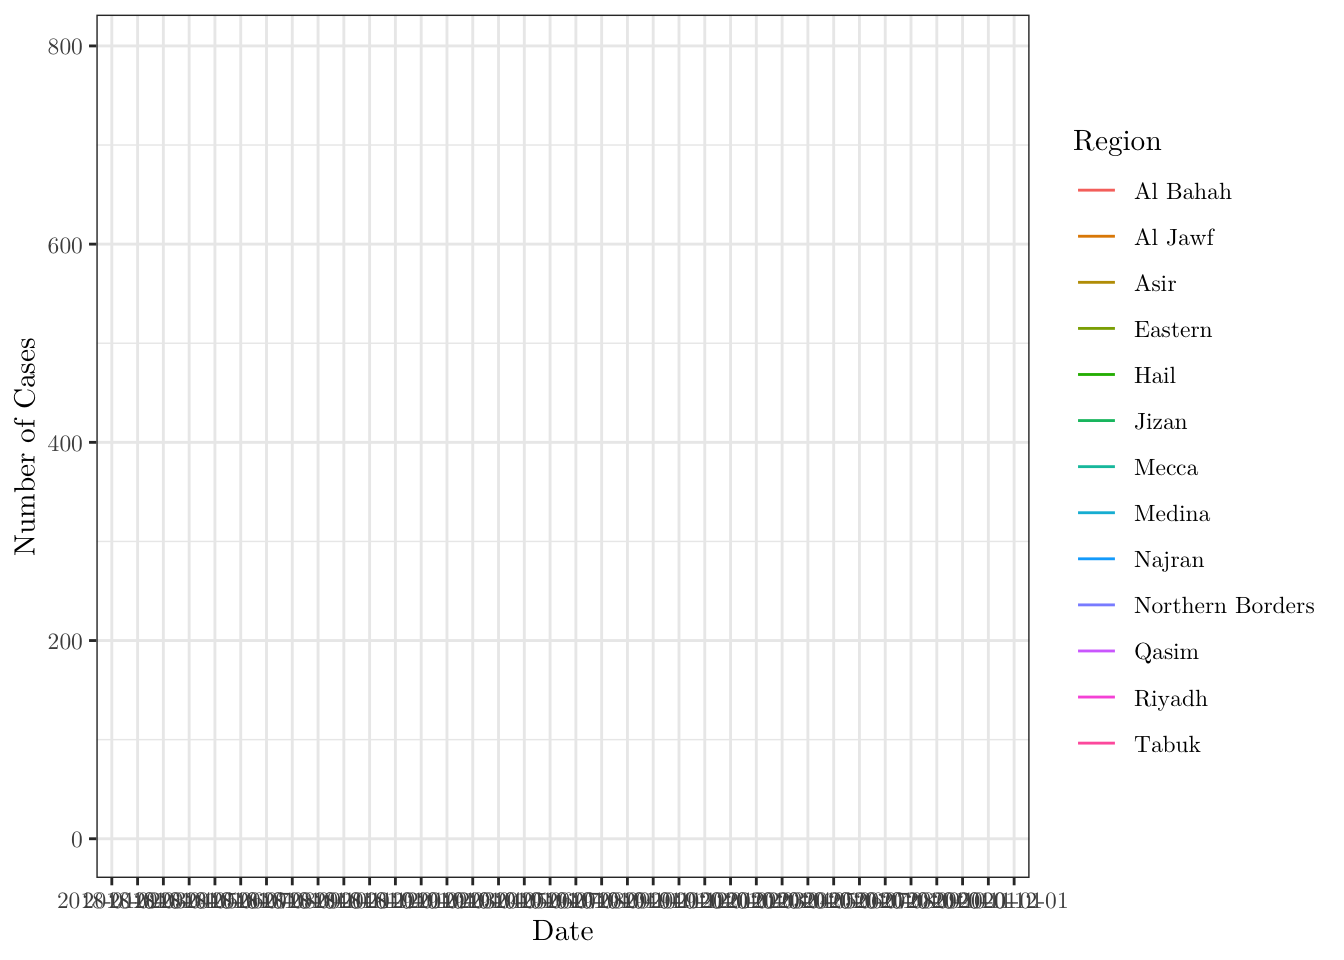
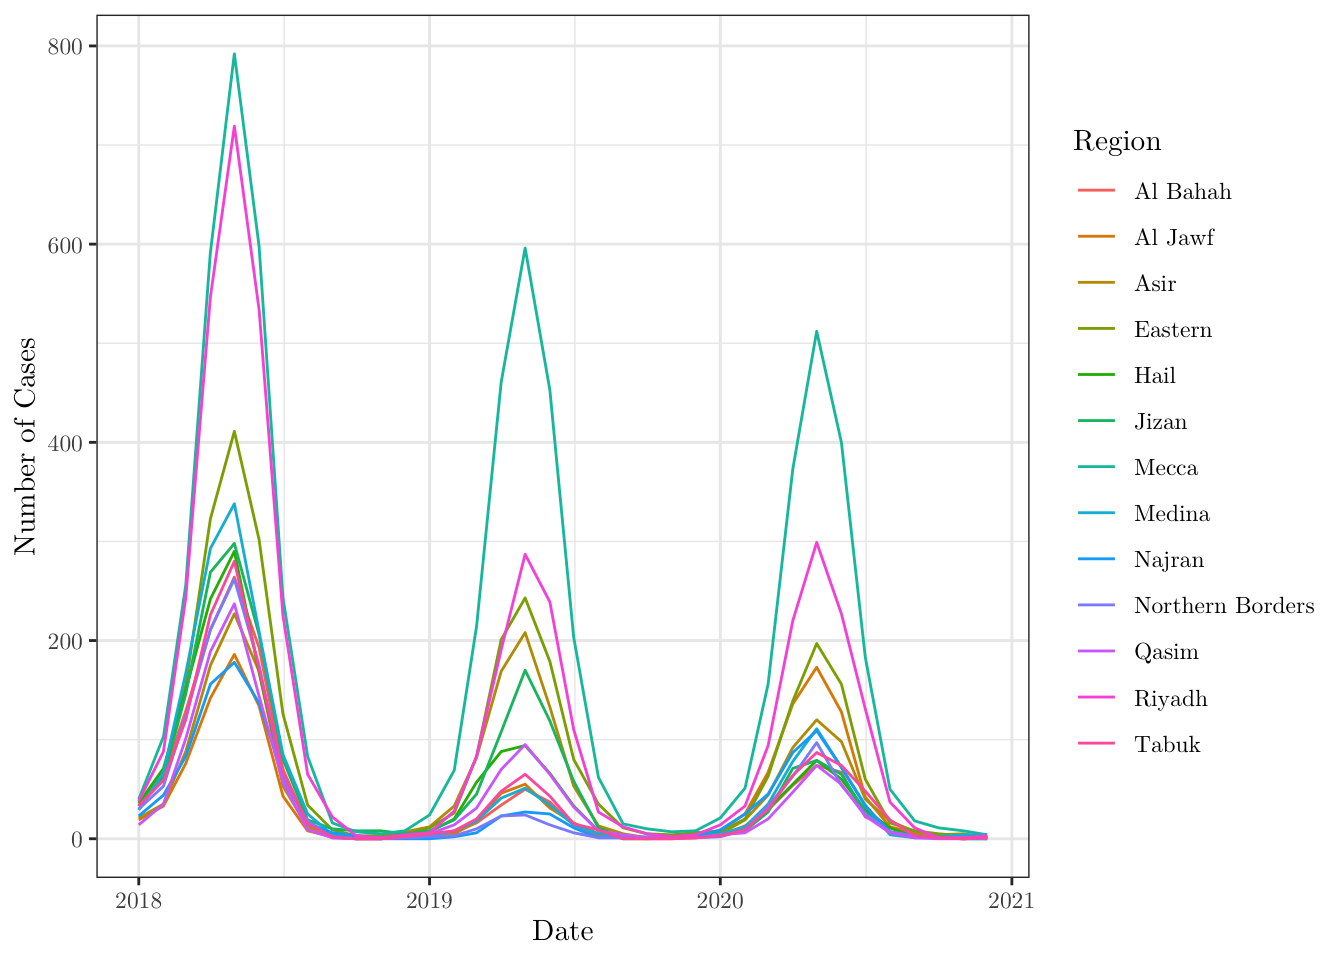
update r4ds

Changed region(s): [[0.0625, 0.0312, 0.7812, 0.9688], [0.5938, 0.3438, 0.625, 0.4688], [0.375, 0.25, 0.4062, 0.375]]

diff --git a/docs/R4DS.html b/docs/R4DS.html
@@ -375,14 +375,24 @@ div.tocify {
 </div>
 
 
-<div id="introduction" class="section level1" number="1">
-<h1><span class="header-section-number">1</span> Introduction</h1>
+<div id="objectives" class="section level1 unnumbered">
+<h1 class="unnumbered">Objectives</h1>
 <p>In this tutorial session, we will see how to read, manipulate and
 visualize data. The main reference for this session is the <a
 href="https://r4ds.had.co.nz/">R for Data Science</a> book, which is
 freely available online.</p>
-<p>Throughout this problem set, consider the following scenario. Let
-<span class="math inline">\(\{y_{it}; i = 1, \cdots, I; t = 1, \cdots,
+</div>
+<div id="introduction" class="section level1" number="1">
+<h1><span class="header-section-number">1</span> Introduction</h1>
+<p>For this problem set, we will use the following libraries</p>
+<pre class="r"><code>library(tidyverse)
+library(lubridate)
+library(zoo)
+library(rgeoboundaries)
+library(patchwork)
+library(viridis)</code></pre>
+<p>Throughout the tutorial, consider the following scenario. Let <span
+class="math inline">\(\{y_{it}; i = 1, \cdots, I; t = 1, \cdots,
 T\}\)</span> denotes a multivariate time series of disease counts in
 each Saudi Arabia region, such that <span class="math inline">\(I =
 13\)</span> refers to the number of considered regions and <span
@@ -400,25 +410,26 @@ size and proportion of men in each region, as well as the number of
 deaths linked to each element of the <span
 class="math inline">\(\{y_{it}\}_{it}\)</span> series.</p>
 <p>You can download the <code>.csv</code> file <a
-href="./datasets/r4ds.csv">here</a>. And you read the file in the
-following way</p>
+href="./datasets/r4ds.csv">here</a>. And you read the file and convert
+it to a <code>tibble</code> object in the following way</p>
 <pre class="r"><code>data &lt;- read.csv(file = &#39;datasets/r4ds.csv&#39;, sep = &#39;,&#39;)
+data &lt;- as_tibble(data)
+data$date &lt;- ymd(data$date)
+
 head(data, 5)</code></pre>
-<pre><code>##         date           region n_cases     pop  men_prop n_deaths
-## 1 2018-01-01          Eastern      33 4105780 0.4029141        3
-## 2 2018-01-01           Najran      23  505652 0.4856072        1
-## 3 2018-01-01 Northern Borders      30  320524 0.6664768        6
-## 4 2018-01-01            Ha’il      36  597144 0.6009460        3
-## 5 2018-01-01           Riyadh      38 6777146 0.5585120        6</code></pre>
+<pre><code>## # A tibble: 5 × 6
+##   date       region           n_cases     pop men_prop n_deaths
+##   &lt;date&gt;     &lt;chr&gt;              &lt;int&gt;   &lt;int&gt;    &lt;dbl&gt;    &lt;int&gt;
+## 1 2018-01-01 Eastern               33 4105780    0.403        3
+## 2 2018-01-01 Najran                23  505652    0.486        1
+## 3 2018-01-01 Northern Borders      30  320524    0.666        6
+## 4 2018-01-01 Ha’il                 36  597144    0.601        3
+## 5 2018-01-01 Riyadh                38 6777146    0.559        6</code></pre>
 <p>The code to generated such a data set can be found <a
 href="./datasets/codeR.R">here</a>.</p>
-<p>Also, we will need the following libraries</p>
-<pre class="r"><code>library(tidyverse)
-library(lubridate)
-library(zoo)
-library(rgeoboundaries)
-library(patchwork)
-library(viridis)</code></pre>
+</div>
+<div id="data-manipulation" class="section level1" number="2">
+<h1><span class="header-section-number">2</span> Data manipulation</h1>
 <p>Now, to manipulate our data set, we will use the <code>dplyr</code>
 package. From , we can see that there are 5 main methods, namely,
 <code>mutate()</code>, <code>select()</code>, <code>filter()</code>,
@@ -428,9 +439,11 @@ package. From , we can see that there are 5 main methods, namely,
 pipe operator <code>%&gt;%</code> (in <code>RStudio</code>, you may use
 the shortcut <code>Ctrl + Shift + M</code>).</p>
 <pre class="r"><code>data %&gt;% select(date, region, n_cases) %&gt;% head(3)</code></pre>
-<pre><code>##         date           region n_cases
-## 1 2018-01-01          Eastern      33
-## 2 2018-01-01           Najran      23
+<pre><code>## # A tibble: 3 × 3
+##   date       region           n_cases
+##   &lt;date&gt;     &lt;chr&gt;              &lt;int&gt;
+## 1 2018-01-01 Eastern               33
+## 2 2018-01-01 Najran                23
 ## 3 2018-01-01 Northern Borders      30</code></pre>
 <pre class="r"><code># Alternatively, 
 # data %&gt;% select(-pop, -men_prop, -n_deaths) %&gt;% head(3)
@@ -439,7 +452,9 @@ the shortcut <code>Ctrl + Shift + M</code>).</p>
 functions that can be combined with <code>select()</code>. For instance,
 select all columns that start with “<code>n_</code>”.</p>
 <pre class="r"><code>data %&gt;% select(starts_with(&#39;n_&#39;)) %&gt;% head(3)</code></pre>
-<pre><code>##   n_cases n_deaths
+<pre><code>## # A tibble: 3 × 2
+##   n_cases n_deaths
+##     &lt;int&gt;    &lt;int&gt;
 ## 1      33        3
 ## 2      23        1
 ## 3      30        6</code></pre>
@@ -448,10 +463,12 @@ select all columns that start with “<code>n_</code>”.</p>
 the dates and regions for which the number of cases is greater than
 40.</p>
 <pre class="r"><code>data %&gt;% filter(n_cases &gt; 30) %&gt;% select(date, region) %&gt;% head(3)</code></pre>
-<pre><code>##         date  region
+<pre><code>## # A tibble: 3 × 2
+##   date       region 
+##   &lt;date&gt;     &lt;chr&gt;  
 ## 1 2018-01-01 Eastern
-## 2 2018-01-01   Ha’il
-## 3 2018-01-01  Riyadh</code></pre>
+## 2 2018-01-01 Ha’il  
+## 3 2018-01-01 Riyadh</code></pre>
 <p>Also, select the date, name of the region, number of cases, and
 number of deaths for which the region is Eastern or Najran
 <code>AND</code> the date is greater than <code>2019-01-01</code> (you
@@ -459,9 +476,11 @@ may want to use the <code>lubridate</code> package to deal with
 dates).</p>
 <pre class="r"><code>data %&gt;% filter(region %in% c(&#39;Eastern&#39;, &#39;Najran&#39;), date &gt; ymd(&#39;2019-01-01&#39;)) %&gt;% 
   select(date, region, n_cases, n_deaths) %&gt;% head(3)</code></pre>
-<pre><code>##         date  region n_cases n_deaths
+<pre><code>## # A tibble: 3 × 4
+##   date       region  n_cases n_deaths
+##   &lt;date&gt;     &lt;chr&gt;     &lt;int&gt;    &lt;int&gt;
 ## 1 2019-02-01 Eastern      26        7
-## 2 2019-02-01  Najran       2        0
+## 2 2019-02-01 Najran        2        0
 ## 3 2019-03-01 Eastern      83       13</code></pre>
 <p>Now, select the date, name of the region, number of cases, and number
 of deaths for which the number of cases is larger than <code>700</code>
@@ -470,17 +489,21 @@ arrange, in a descending order for <code>n_cases</code>, the
 results.</p>
 <pre class="r"><code>data %&gt;% filter(n_deaths == 10 | n_cases &gt; 700) %&gt;% 
   select(date, region, n_cases, n_deaths) %&gt;% arrange(desc(n_cases)) %&gt;% head(3)</code></pre>
-<pre><code>##         date region n_cases n_deaths
-## 1 2018-05-01  Mecca     792       93
+<pre><code>## # A tibble: 3 × 4
+##   date       region n_cases n_deaths
+##   &lt;date&gt;     &lt;chr&gt;    &lt;int&gt;    &lt;int&gt;
+## 1 2018-05-01 Mecca      792       93
 ## 2 2018-05-01 Riyadh     719      121
-## 3 2019-05-01  Ha’il      94       10</code></pre>
+## 3 2019-05-01 Ha’il       94       10</code></pre>
 <p>Finally, using the <code>mutate()</code> function, create a new
 column into the original data set that shows the cumulative sum for the
 number of deaths (and name it <code>cum_deaths</code>), and select the
 number of deaths and this newly created column.</p>
 <pre class="r"><code>data %&gt;% mutate(cum_deaths = cumsum(n_deaths)) %&gt;% 
   select(ends_with(&#39;deaths&#39;)) %&gt;% head(3)</code></pre>
-<pre><code>##   n_deaths cum_deaths
+<pre><code>## # A tibble: 3 × 2
+##   n_deaths cum_deaths
+##      &lt;int&gt;      &lt;int&gt;
 ## 1        3          3
 ## 2        1          4
 ## 3        6         10</code></pre>
@@ -500,10 +523,12 @@ columns.</p>
   drop_na(n_cases_lag2) %&gt;% 
   select(-date, -region) %&gt;% 
   head(3)</code></pre>
-<pre><code>##   n_cases     pop  men_prop n_deaths n_cases_lag2 n_deaths_lag3
-## 1      30  320524 0.6664768        6           33            NA
-## 2      36  597144 0.6009460        3           23             3
-## 3      38 6777146 0.5585120        6           30             1</code></pre>
+<pre><code>## # A tibble: 3 × 6
+##   n_cases     pop men_prop n_deaths n_cases_lag2 n_deaths_lag3
+##     &lt;int&gt;   &lt;int&gt;    &lt;dbl&gt;    &lt;int&gt;        &lt;int&gt;         &lt;int&gt;
+## 1      30  320524    0.666        6           33            NA
+## 2      36  597144    0.601        3           23             3
+## 3      38 6777146    0.559        6           30             1</code></pre>
 <p>Now, the goal is work with the <code>group_by()</code> function. To
 do this, group the data set by region, and select the three first
 columns.</p>
@@ -511,7 +536,7 @@ columns.</p>
 <pre><code>## # A tibble: 3 × 3
 ## # Groups:   region [3]
 ##   date       region           n_cases
-##   &lt;chr&gt;      &lt;chr&gt;              &lt;int&gt;
+##   &lt;date&gt;     &lt;chr&gt;              &lt;int&gt;
 ## 1 2018-01-01 Eastern               33
 ## 2 2018-01-01 Najran                23
 ## 3 2018-01-01 Northern Borders      30</code></pre>
@@ -527,7 +552,7 @@ date.</p>
 <pre><code>## # A tibble: 14 × 7
 ## # Groups:   date [2]
 ##    date       region           n_cases men_prop n_deaths norm_cases cumsum
-##    &lt;chr&gt;      &lt;chr&gt;              &lt;int&gt;    &lt;dbl&gt;    &lt;int&gt;      &lt;dbl&gt;  &lt;dbl&gt;
+##    &lt;date&gt;     &lt;chr&gt;              &lt;int&gt;    &lt;dbl&gt;    &lt;int&gt;      &lt;dbl&gt;  &lt;dbl&gt;
 ##  1 2018-01-01 Eastern               33    0.403        3     0.0862 0.0862
 ##  2 2018-01-01 Najran                23    0.486        1     0.0601 0.146 
 ##  3 2018-01-01 Northern Borders      30    0.666        6     0.0783 0.225 
@@ -551,8 +576,10 @@ number of rows.</p>
             var_n_cases = var(n_cases, na.rm = TRUE),
             mean_n_deaths = mean(n_deaths, na.rm = TRUE),
             var_n_deaths = var(n_deaths, na.rm = TRUE), n = n())</code></pre>
-<pre><code>##   mean_n_cases var_n_cases mean_n_deaths var_n_deaths   n
-## 1     63.90812    11830.49      9.764957     293.5463 468</code></pre>
+<pre><code>## # A tibble: 1 × 5
+##   mean_n_cases var_n_cases mean_n_deaths var_n_deaths     n
+##          &lt;dbl&gt;       &lt;dbl&gt;         &lt;dbl&gt;        &lt;dbl&gt; &lt;int&gt;
+## 1         63.9      11830.          9.76         294.   468</code></pre>
 <p>Notice that the result from the above item is not very impressive,
 but we can combine it with <code>group_by()</code> to get more
 meaningful statistics. For instance, obtain similar results as before,
@@ -590,52 +617,79 @@ consider the following data set, which shows the (fake) mean temperature
 Assuming the previous data set is in <code>data</code>,</p>
 <pre class="r"><code>set.seed(0)
 n &lt;- (nrow(data) - 3)
-new_data &lt;- tibble(id = 1:n, date = data$date[1:n], region = data$region[1:n], temperature = round(rnorm(n, 30, 2), 1))</code></pre>
+new_data &lt;- tibble(id = 1:n, date = data$date[1:n], region = data$region[1:n], temperature = round(rnorm(n, 30, 2), 1))
+new_data</code></pre>
+<pre><code>## # A tibble: 465 × 4
+##       id date       region           temperature
+##    &lt;int&gt; &lt;date&gt;     &lt;chr&gt;                  &lt;dbl&gt;
+##  1     1 2018-01-01 Eastern                 32.5
+##  2     2 2018-01-01 Najran                  29.3
+##  3     3 2018-01-01 Northern Borders        32.7
+##  4     4 2018-01-01 Ha’il                   32.5
+##  5     5 2018-01-01 Riyadh                  30.8
+##  6     6 2018-01-01 Asir                    26.9
+##  7     7 2018-01-01 Mecca                   28.1
+##  8     8 2018-01-01 Tabuk                   29.4
+##  9     9 2018-01-01 Medina                  30  
+## 10    10 2018-01-01 Qasim                   34.8
+## # … with 455 more rows</code></pre>
 <p>Notice that there is a column named <code>id</code> on
 <code>new_data</code>. We will need it to link the new tibble to the old
 one. Thus, let’s create a similar column in <code>data</code>.</p>
 <pre class="r"><code>data &lt;- data %&gt;% add_column(id = 1:(nrow(data))) %&gt;% select(c(7, 1:6))
 head(data, 1)</code></pre>
-<pre><code>##   id       date  region n_cases     pop  men_prop n_deaths
-## 1  1 2018-01-01 Eastern      33 4105780 0.4029141        3</code></pre>
+<pre><code>## # A tibble: 1 × 7
+##      id date       region  n_cases     pop men_prop n_deaths
+##   &lt;int&gt; &lt;date&gt;     &lt;chr&gt;     &lt;int&gt;   &lt;int&gt;    &lt;dbl&gt;    &lt;int&gt;
+## 1     1 2018-01-01 Eastern      33 4105780    0.403        3</code></pre>
 <p>Now, we can incorporate the new data into the original tibble by
 using, for example, the <code>left_join()</code> function.</p>
 <pre class="r"><code>data %&gt;% left_join(new_data %&gt;% select(id, temperature), by = &#39;id&#39;) %&gt;% 
   tail(1)</code></pre>
-<pre><code>##      id       date  region n_cases    pop  men_prop n_deaths temperature
-## 468 468 2020-12-01 Al Jawf       2 440009 0.2975002        0          NA</code></pre>
+<pre><code>## # A tibble: 1 × 8
+##      id date       region  n_cases    pop men_prop n_deaths temperature
+##   &lt;int&gt; &lt;date&gt;     &lt;chr&gt;     &lt;int&gt;  &lt;int&gt;    &lt;dbl&gt;    &lt;int&gt;       &lt;dbl&gt;
+## 1   468 2020-12-01 Al Jawf       2 440009    0.298        0          NA</code></pre>
 </div>
-<div id="main-section" class="section level1" number="2">
-<h1><span class="header-section-number">2</span> Main Section</h1>
-<p>For this section, from the original data set, create an object that
-contains the columns <code>date</code>, <code>region</code>,
-<code>n_men</code>, <code>n_women</code>, <code>n_cases</code>, and
-<code>n_deaths</code>, such that <code>n_men</code> and
-<code>n_women</code> correspond to the number of men and the number of
-women, respectively (to do this, recall that <code>men_prop</code>
-represents the proportion of men in the population for a given
-region).</p>
+<div id="data-visualization" class="section level1" number="3">
+<h1><span class="header-section-number">3</span> Data visualization</h1>
+<p>For this section, we will use <code>ggplot2</code> to produce
+different plots.</p>
+<div id="data-preparation" class="section level2" number="3.1">
+<h2><span class="header-section-number">3.1</span> Data preparation</h2>
+<p>From the original data set, create an object that contains the
+columns <code>date</code>, <code>region</code>, <code>n_men</code>,
+<code>n_women</code>, <code>n_cases</code>, and <code>n_deaths</code>,
+such that <code>n_men</code> and <code>n_women</code> correspond to the
+number of men and the number of women, respectively (to do this, recall
+that <code>men_prop</code> represents the proportion of men in the
+population for a given region).</p>
 <pre class="r"><code>data &lt;- data %&gt;% mutate(women_prop = 1 - men_prop) %&gt;%
           mutate(n_men = pop * men_prop) %&gt;% 
           mutate(n_women = pop * women_prop) %&gt;% 
           select(date, region, n_men, n_women, n_cases, n_deaths)
 head(data, 7)</code></pre>
-<pre><code>##         date           region     n_men   n_women n_cases n_deaths
-## 1 2018-01-01          Eastern 1654276.5 2451503.5      33        3
-## 2 2018-01-01           Najran  245548.2  260103.8      23        1
-## 3 2018-01-01 Northern Borders  213621.8  106902.2      30        6
-## 4 2018-01-01            Ha’il  358851.3  238292.7      36        3
-## 5 2018-01-01           Riyadh 3785117.5 2992028.5      38        6
-## 6 2018-01-01             Asir  850467.7 1062924.3      21        4
-## 7 2018-01-01            Mecca 2086623.2 4828382.8      40        9</code></pre>
+<pre><code>## # A tibble: 7 × 6
+##   date       region              n_men  n_women n_cases n_deaths
+##   &lt;date&gt;     &lt;chr&gt;               &lt;dbl&gt;    &lt;dbl&gt;   &lt;int&gt;    &lt;int&gt;
+## 1 2018-01-01 Eastern          1654276. 2451504.      33        3
+## 2 2018-01-01 Najran            245548.  260104.      23        1
+## 3 2018-01-01 Northern Borders  213622.  106902.      30        6
+## 4 2018-01-01 Ha’il             358851.  238293.      36        3
+## 5 2018-01-01 Riyadh           3785117. 2992029.      38        6
+## 6 2018-01-01 Asir              850468. 1062924.      21        4
+## 7 2018-01-01 Mecca            2086623. 4828383.      40        9</code></pre>
+</div>
+<div id="plotting" class="section level2" number="3.2">
+<h2><span class="header-section-number">3.2</span> Plotting</h2>
 <p>Now, the main goal is visualize the studied data set. To do this, we
 will mainly rely on the <code>ggplot2</code> library, which is also
 included in the <code>tidyverse</code> universe.</p>
 <p>Start by creating a line chart for the number of cases in each region
-(all in the same plot) over the months (When I tried to plot it in my
+(all in the same plot) over the months (when I tried to plot it in my
 <code>RMarkdown</code> document, I had problems with the
 <code>Ha’il</code> name. If the same happens to you, try to replace it
-by <code>Hail</code>.). Map <code>region</code> to
+by <code>Hail</code>). Map <code>region</code> to
 <code>color</code>.</p>
 <pre class="r"><code>data &lt;- data %&gt;% mutate(region = replace(region, region == &#39;Ha’il&#39;, &#39;Hail&#39;))</code></pre>
 <pre class="r"><code>ggplot(data = data, 
@@ -644,8 +698,6 @@ by <code>Hail</code>.). Map <code>region</code> to
   theme_bw() + 
   labs(x = &#39;Date&#39;, y = &#39;Number of Cases&#39;, color = &#39;Region&#39;) + 
   theme(text = element_text(family = &#39;LM Roman 10&#39;))</code></pre>
-<pre><code>## geom_path: Each group consists of only one observation. Do you need to adjust
-## the group aesthetic?</code></pre>
 <p><img src="R4DS_files/figure-html/unnamed-chunk-19-1.png" width="672" /></p>
 <p>When plotting, we can also map more than one property at a time. For
 instance, plot a dot chart for the number of cases in each region over
@@ -680,11 +732,6 @@ same time series.</p>
                                  &#39;solid_red&#39; = alpha(&#39;red&#39;, 1.00)),
                       labels = c(&#39;Original data&#39;, &#39;Moving average&#39;)) +
   theme(text = element_text(family = &#39;LM Roman 10&#39;))</code></pre>
-<pre><code>## geom_path: Each group consists of only one observation. Do you need to adjust
-## the group aesthetic?</code></pre>
-<pre><code>## Warning: Removed 2 row(s) containing missing values (geom_path).</code></pre>
-<pre><code>## geom_path: Each group consists of only one observation. Do you need to adjust
-## the group aesthetic?</code></pre>
 <p><img src="R4DS_files/figure-html/unnamed-chunk-21-1.png" width="672" /></p>
 <p>Now, we will plot the map of Saudi Arabia divided into the given
 regions. To do this, we will need to work with a <code>shapefile</code>
@@ -695,9 +742,9 @@ such data. For instance, we can use the
 from the <code>rgeoboundaries</code> package to obtain the desired data
 set.</p>
 <p>After downloading the data, you can plot it using the
-<code>ggplot(data) + geom_sf()</code> functions (Depending on what you
+<code>ggplot(data) + geom_sf()</code> functions (depending on what you
 are trying to do, you may have to install (and load) the <code>sp</code>
-and/or <code>sf</code> libraries.).</p>
+and/or <code>sf</code> libraries).</p>
 <pre class="r"><code>KSA_shape &lt;- geoboundaries(&#39;Saudi Arabia&#39;, adm_lvl = &#39;adm1&#39;)
 KSA_shape$shapeName &lt;- data$region[1:13]
 
@@ -707,15 +754,13 @@ ggplot(data = KSA_shape) +
   theme_bw() + 
   labs(x = &#39;Longitude&#39;, y = &#39;Latitude&#39;, title = &#39;Map of Saudi Arabia&#39;) + 
   theme(text = element_text(family = &#39;LM Roman 10&#39;))</code></pre>
-<pre><code>## Warning in st_point_on_surface.sfc(sf::st_zm(x)): st_point_on_surface may not
-## give correct results for longitude/latitude data</code></pre>
 <p><img src="R4DS_files/figure-html/unnamed-chunk-22-1.png" width="672" /></p>
 <p>As a final task, plot two versions of the above map side-by-side. On
 the left, the colors should represent the population size for men in
-each region; similarly, on the right, the population size for women (To
+each region; similarly, on the right, the population size for women (to
 combine plots in this way, you may want to use the
 <code>patchwork</code> package. And for different colour palettes, you
-may use the <code>viridis</code> package.). Use the same scale, so that
+may use the <code>viridis</code> package). Use the same scale, so that
 the values are comparable.</p>
 <pre class="r"><code>KSA_shape$n_men &lt;- data$n_men[1:13]
 KSA_shape$n_women &lt;- data$n_women[1:13]
@@ -744,15 +789,11 @@ women &lt;- ggplot(data = KSA_shape) +
          theme(text = element_text(family = &#39;LM Roman 10&#39;))
 
 combined &lt;- men + women  + plot_layout(guides = &#39;collect&#39;, ncol = 1) &amp;
-              theme(legend.position = &#39;right&#39;, legend.key.height = unit(3, &#39;cm&#39;))
+              theme(legend.position = &#39;right&#39;, legend.key.height = unit(1.25, &#39;cm&#39;))
 
 print(combined)</code></pre>
-<pre><code>## Warning in st_point_on_surface.sfc(sf::st_zm(x)): st_point_on_surface may not
-## give correct results for longitude/latitude data
-
-## Warning in st_point_on_surface.sfc(sf::st_zm(x)): st_point_on_surface may not
-## give correct results for longitude/latitude data</code></pre>
-<p><img src="R4DS_files/figure-html/unnamed-chunk-23-1.png" width="672" /></p>
+<p><img src="R4DS_files/figure-html/unnamed-chunk-23-1.png" width="576" /></p>
+</div>
 </div>
 
 
